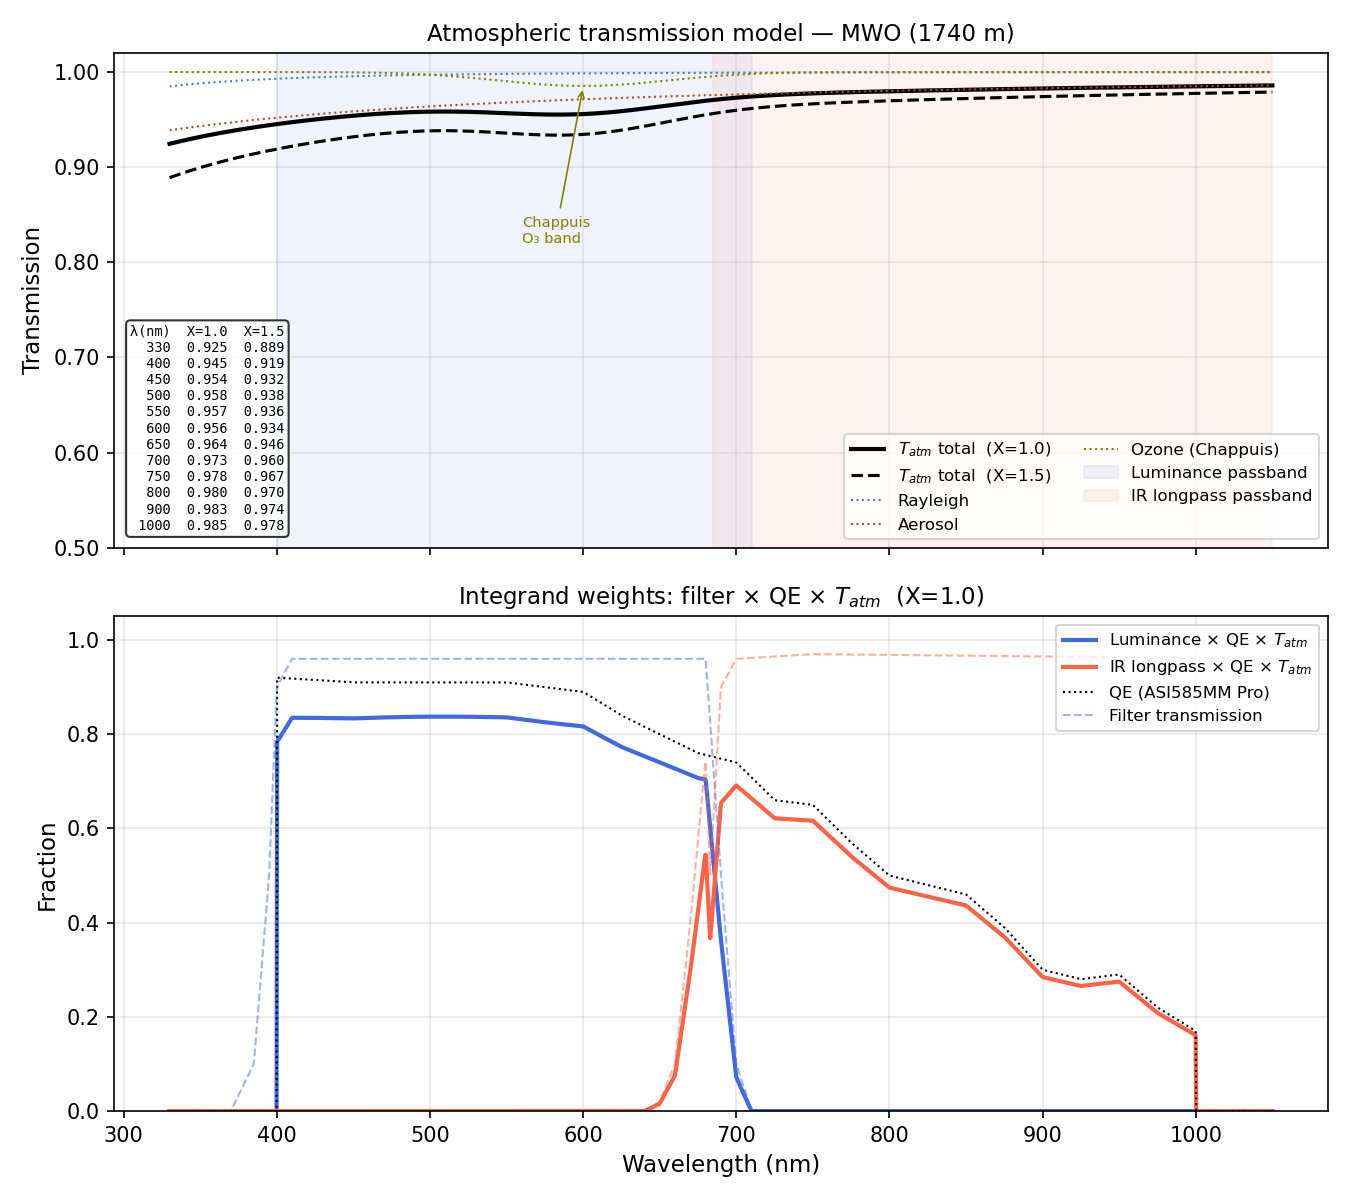
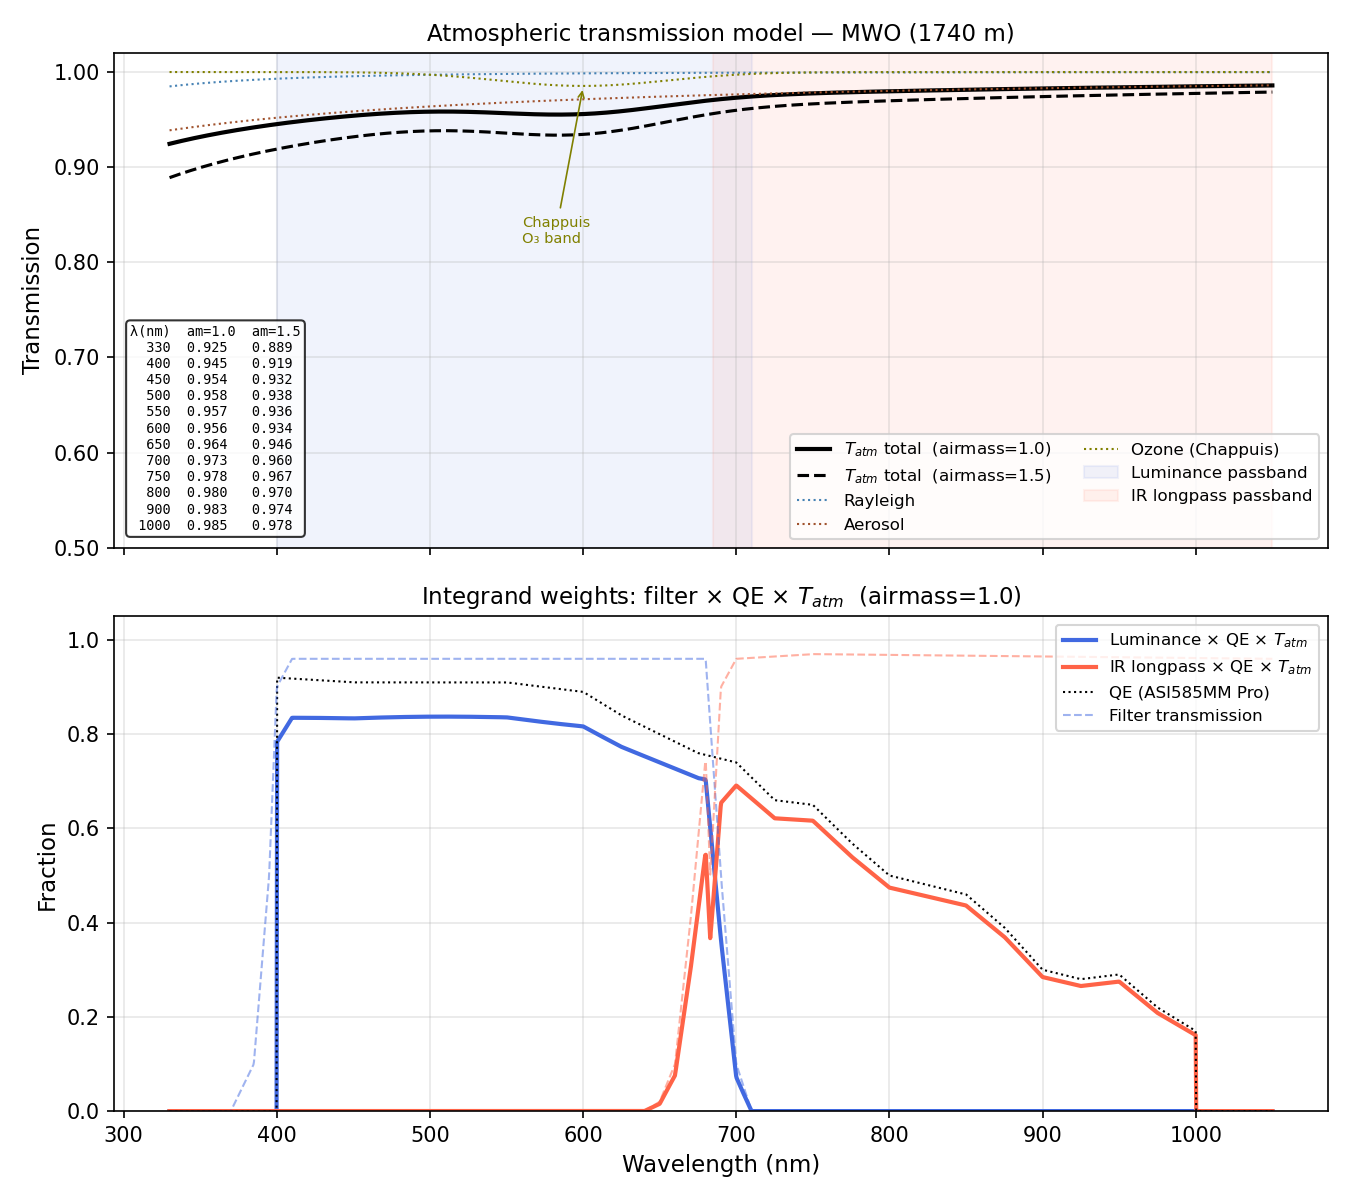
Replace 'X' with 'airmass' in T_atm plot labels

Changed region(s): [[0.3111, 0.4933, 0.7467, 0.5242], [0.5911, 0.37, 0.7467, 0.4625], [0.1867, 0.2467, 0.2178, 0.4625]]

diff --git a/plot_tatm.py b/plot_tatm.py
@@ -38,8 +38,8 @@ fig, axes = plt.subplots(2, 1, figsize=(9, 8), sharex=True)
 
 # --- Top panel: T_atm and components -------------------------------------
 ax = axes[0]
-ax.plot(lam, T_tot1,  'k',   lw=2,   label='$T_{atm}$ total  (X=1.0)')
-ax.plot(lam, T_tot15, 'k--', lw=1.5, label='$T_{atm}$ total  (X=1.5)')
+ax.plot(lam, T_tot1,  'k',   lw=2,   label='$T_{atm}$ total  (airmass=1.0)')
+ax.plot(lam, T_tot15, 'k--', lw=1.5, label='$T_{atm}$ total  (airmass=1.5)')
 ax.plot(lam, T_ray,  color='steelblue',  lw=1, ls=':', label='Rayleigh')
 ax.plot(lam, T_aer,  color='sienna',     lw=1, ls=':', label='Aerosol')
 ax.plot(lam, T_oz,   color='olive',      lw=1, ls=':', label='Ozone (Chappuis)')
@@ -78,15 +78,15 @@ ax2.set_xlabel('Wavelength (nm)', fontsize=11)
 ax2.set_ylabel('Fraction', fontsize=11)
 ax2.set_ylim(0, 1.05)
 ax2.legend(fontsize=8, loc='upper right')
-ax2.set_title('Integrand weights: filter × QE × $T_{atm}$  (X=1.0)', fontsize=11)
+ax2.set_title('Integrand weights: filter × QE × $T_{atm}$  (airmass=1.0)', fontsize=11)
 ax2.grid(True, alpha=0.3)
 
 # Representative T_atm values as a text table in the top panel
 rows = [330, 400, 450, 500, 550, 600, 650, 700, 750, 800, 900, 1000]
 t1_vals  = atmospheric_transmission(np.array(rows, float), airmass=1.0)
 t15_vals = atmospheric_transmission(np.array(rows, float), airmass=1.5)
-table_str = 'λ(nm)  X=1.0  X=1.5\n' + '\n'.join(
-    f'{r:5d}  {t1:.3f}  {t15:.3f}' for r, t1, t15 in zip(rows, t1_vals, t15_vals))
+table_str = 'λ(nm)  am=1.0  am=1.5\n' + '\n'.join(
+    f'{r:5d}  {t1:.3f}   {t15:.3f}' for r, t1, t15 in zip(rows, t1_vals, t15_vals))
 axes[0].text(0.013, 0.03, table_str, transform=axes[0].transAxes,
              fontsize=6.5, family='monospace', verticalalignment='bottom',
              bbox=dict(boxstyle='round', facecolor='white', alpha=0.8))
